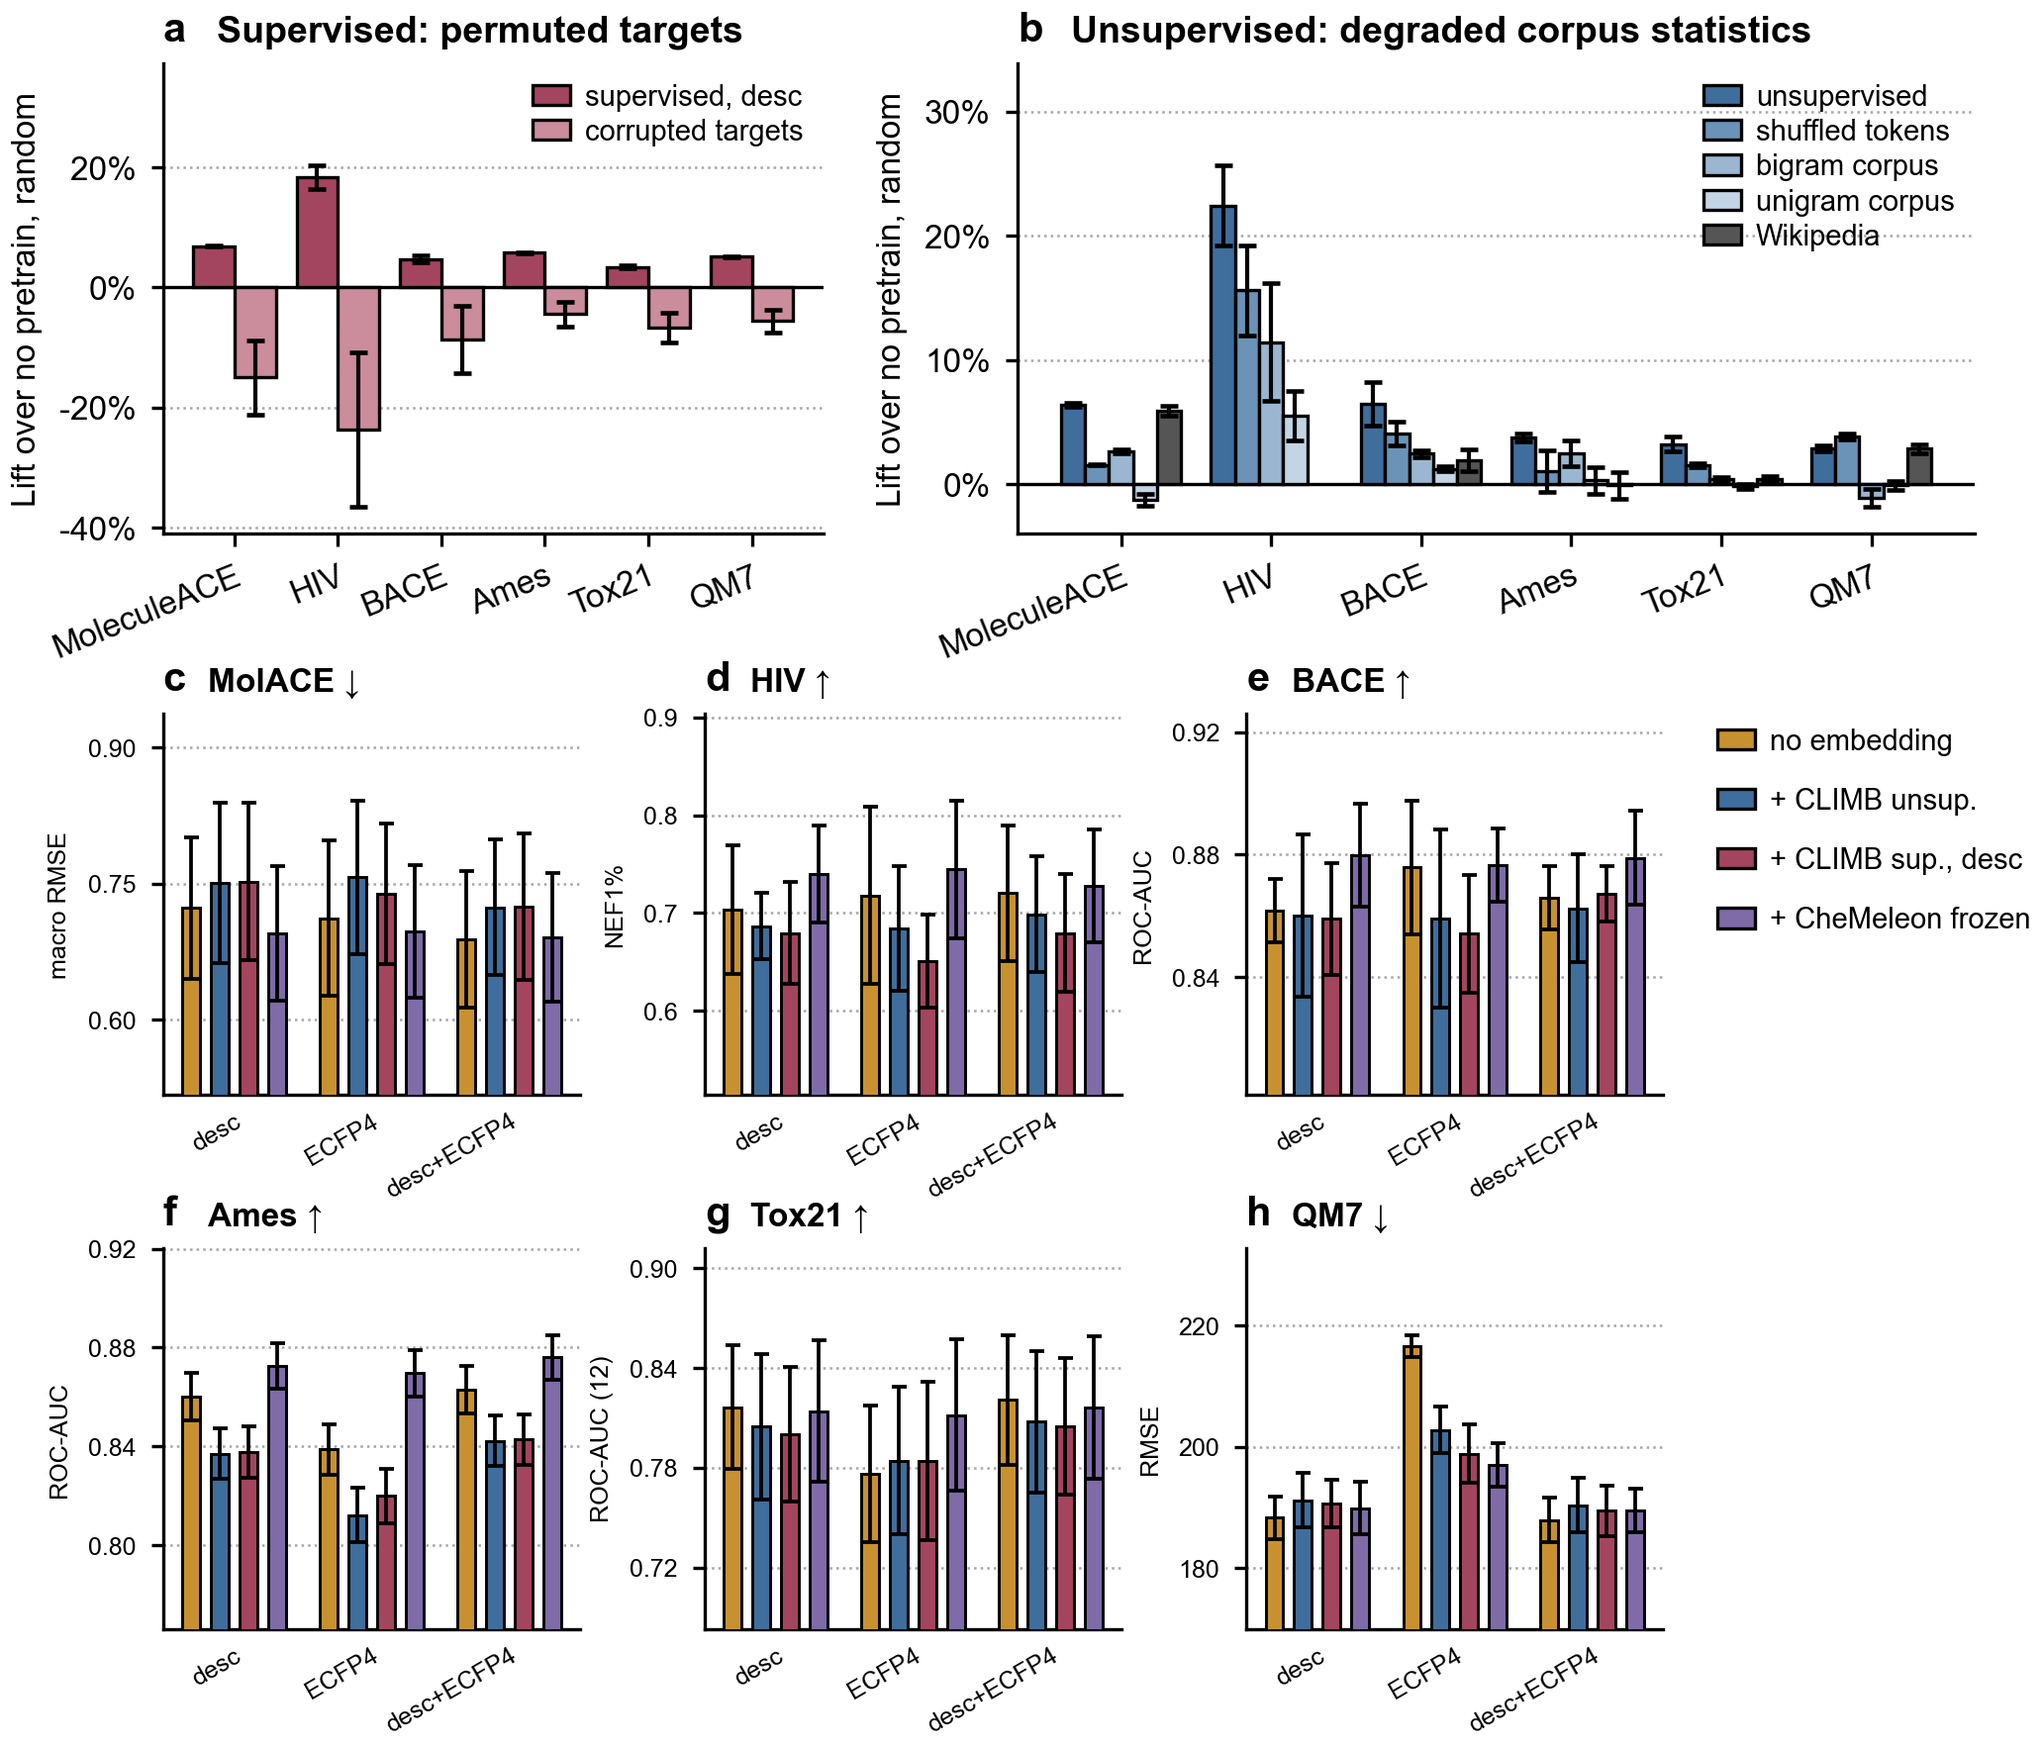
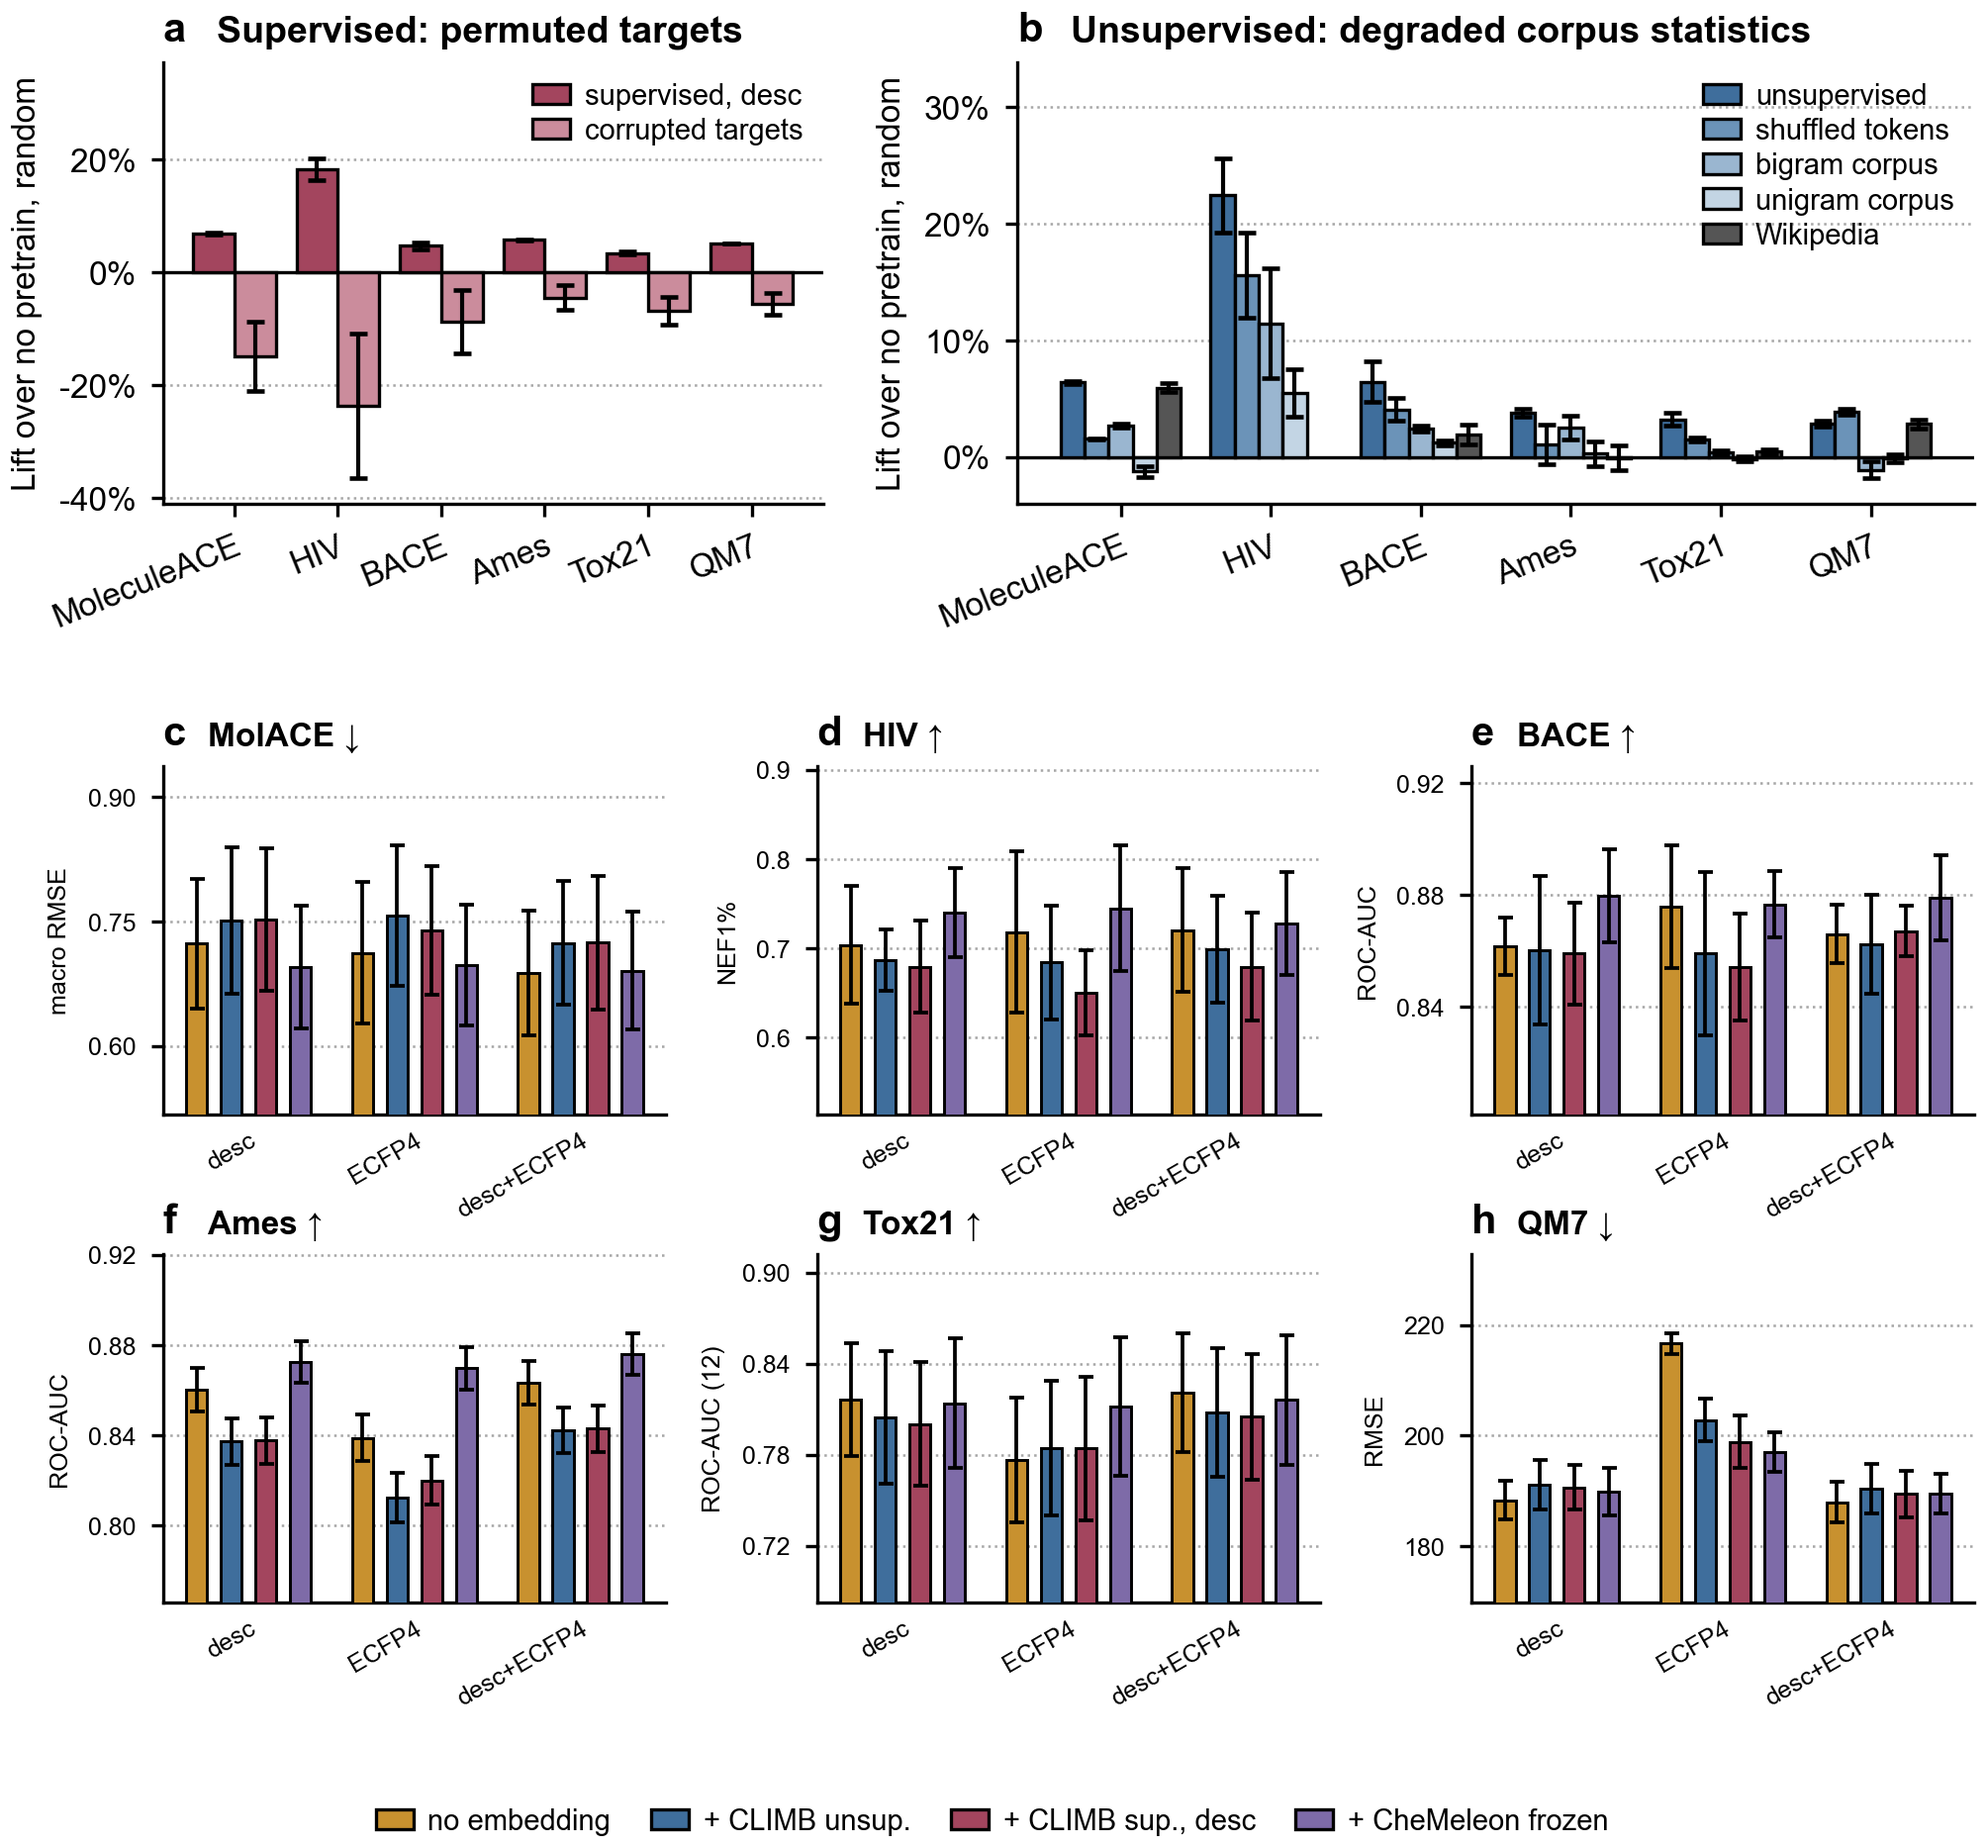
fig_E+F: one width for both halves, legend beneath; fig_A legend as wide as it fits
E+F. F stopped at 0.838 so its legend could sit in a gutter beside it, which put the two
halves of one figure on two different widths. The legend moves under F as a single row and F
runs to E's right edge -- the trade the old comment named and declined. F's panels go 1.78in
-> 2.05in and the plate grows 6.05 -> 6.22in for the legend row and the extra clearance E's
rotated tick labels need above F's titles.

fig_A. 'Wider, not longer' was the instruction and 4 columns is as wide as it goes. Measured
at the already-tightened handlelength and columnspacing:

    4 columns -> 6.68in   fits the 6.69in text block
    5 columns -> 6.85in   +2.4%
    6 columns -> 7.21in   +7.8%

Past 4 the legend rather than the panels sets the plate width, LaTeX scales the figure down
to fit and every font shrinks with it, so a wider legend makes worse use of the page. The
long labels are what cost it; shortening them is the only lever left.

A1 and A2 already share a width -- both gridspecs span 0.185 to 0.995 and the axes boxes
measure identical. What differs is ink outside the axes: A1's two-line arm names reach
further left than A2's y-labels, so the halves look inset when they are not.

diff --git a/figures/fig_E_plus_F.py b/figures/fig_E_plus_F.py
@@ -44,7 +44,7 @@ import matplotlib.pyplot as plt
 import pandas as pd
 from matplotlib.gridspec import GridSpec
 
-from figures.style import STYLE, FS, save, check_font
+from figures.style import STYLE, FS, save, check_font, row_ncol
 from figures.arms import PANEL_ORDER, ARMS
 import figures.fig_E as E
 import figures.fig_F as F
@@ -60,23 +60,23 @@ def main():
     # is set by what the two halves need: ~1.75in of axes for E's row and ~1.4in per row for F's
     # two. That lands well inside A4's 10.1in text height, so the figure and its caption share a
     # page.
-    RIGHT = 0.995            # E, and the page
-    F_RIGHT = 0.838          # F stops here; the legend column is 0.858..0.995
-    F_TOP, F_BOT = 0.600, 0.090
-    fig = plt.figure(figsize=(STYLE["col2"], 6.05))
+    # ONE RIGHT EDGE FOR BOTH HALVES (user 2026-08-20: "have the width of E and F be the same").
+    # F used to stop at 0.838 so its legend could sit in the gutter beside it; that made F's six
+    # panels 1.78in against E's 2.5/3.6in and, more to the point, put the two halves of one figure
+    # on two different widths. The legend moves under F instead. That is the trade the previous
+    # comment named and declined -- it costs page height for the legend row and buys back the
+    # alignment.
+    RIGHT = 0.995            # E, F, and the page
+    F_TOP, F_BOT = 0.600, 0.170
+    fig = plt.figure(figsize=(STYLE["col2"], 6.55))
     # width_ratios [1.0, 1.45] is fig_E's own: panel b carries five series per group and panel a
     # only two, so b needs the extra width to keep the ladder legible.
     # ONE right edge for both halves. The legend is right-aligned to the SAME number, which is
     # what "aligned with the right side of E" means once E and F are stacked and share it.
     gsE = GridSpec(1, 2, figure=fig, width_ratios=[1.0, 1.45], wspace=0.24,
-                   left=0.082, right=RIGHT, top=0.962, bottom=0.700)
-    # F stops SHORT of the right edge so its one-column legend sits BESIDE it rather than under it
-    # (user 2026-08-19). A legend below cost ~0.5in of page height for three entries; beside, it
-    # costs width that the six F panels can spare -- they were 1.83in and are now 1.63in, still far
-    # above the 1.15in that made the labels illegible in the old side-by-side layout. E keeps the
-    # full text block, so the two halves no longer share a right edge; that is the trade.
+                   left=0.082, right=RIGHT, top=0.962, bottom=0.735)
     gsF = GridSpec(2, 3, figure=fig, wspace=0.30, hspace=0.40,
-                   left=0.082, right=F_RIGHT, top=F_TOP, bottom=F_BOT)
+                   left=0.082, right=RIGHT, top=F_TOP, bottom=F_BOT)
 
     ylims = {panel: E._lim(dE[dE.panel == panel]) for panel, _, _, _ in E.PANELS}
     for col, (panel, tag, subtitle, series) in enumerate(E.PANELS):
@@ -92,21 +92,14 @@ def main():
         # point of the restack.
         F.draw_panel(ax, dF, p, compact=True, tag=tags[k], fig=fig, ylims=ylims, xrot=0, bw=0.62)
 
-    # VERTICAL, in the gutter to the RIGHT of the F block, centred on its height. The anchor entry
-    # is dropped -- it is the first bar in every panel, tick-labelled "ECFP+d", and is the dotted
-    # reference line, so it needs no swatch.
-    # TOP of the gutter, so the three entries sit level with F's FIRST row rather than straddling
-    # both (user 2026-08-19). loc="upper left" anchored at F's own top edge lines the legend's first
-    # swatch up with the top of panels c-e.
-    #
-    # WHAT THIS CANNOT DO: F cannot both carry a legend beside it and extend to E's right edge --
-    # the gutter is the legend. F is widened as far as the wrapped labels allow (0.775 -> 0.838,
-    # panels 1.63in -> 1.78in against E's 2.5/3.6in). Putting F at E's full width means the legend
-    # goes back underneath and the figure grows ~0.5in taller; that trade is in the commit message.
-    fig.legend(handles=F.legend_handles(skip_anchor=True, wrap=True), loc="upper left",
-               bbox_to_anchor=(F_RIGHT + 0.020, F_TOP), ncol=1,
-               fontsize=FS["legend"], handletextpad=0.5, labelspacing=1.1, borderpad=0.0,
-               frameon=False)
+    # HORIZONTAL, UNDER F, spanning its full width. The anchor entry is dropped -- it is the
+    # first bar in every panel, tick-labelled "ECFP+d", and is the dotted reference line, so it
+    # needs no swatch. Four entries fit one row comfortably at the full text-block width, which is
+    # the house default (figures/style.row_ncol) and what the gutter version could never do.
+    _h = F.legend_handles(skip_anchor=True, wrap=False)
+    fig.legend(handles=_h, loc="upper center", bbox_to_anchor=(0.5, F_BOT - 0.098),
+               ncol=row_ncol(_h), fontsize=FS["legend"], handletextpad=0.5, columnspacing=1.4,
+               labelspacing=0.3, borderpad=0.0, frameon=False)
     save(fig, "fig_E+F")
     plt.close(fig)
     print("assembled fig_E+F from fig_E + fig_F (no recomputation beyond their own entry points)")

diff --git a/figures/fig_A.py b/figures/fig_A.py
@@ -112,11 +112,19 @@ def build(height=HEIGHT, top_frac=0.62):
     _h2 = A2.legend_handles()
     fig.legend(handles=_h2, loc="upper center",
                bbox_to_anchor=((b_x0 + b_x1) / 2, b_bot - 0.030),
-               # 12 handles. One row is the default and does not fit, and neither does two:
-               # 6 columns rendered 7.49in against a 6.69in text block, i.e. the legend and not
-               # the panels was setting the plate width. rows=3 -> 4 columns, measured.
-               ncol=row_ncol(_h2, rows=3), frameon=False, fontsize=FS["legend"], handlelength=1.5,
-               handletextpad=0.5, labelspacing=0.3, columnspacing=1.1, borderpad=0.0,
+               # WIDER, NOT LONGER was the instruction (user 2026-08-20), and 4 columns is as
+               # wide as it goes. Measured at the tightened handlelength/columnspacing below,
+               # which are already past their defaults:
+               #     4 columns -> 6.68in     fits the 6.69in text block
+               #     5 columns -> 6.85in     +2.4%
+               #     6 columns -> 7.21in     +7.8%
+               # Past 4, the legend rather than the panels sets the plate width, LaTeX scales the
+               # whole figure down to fit, and every font shrinks with it -- so a wider legend
+               # makes worse use of the page, not better. The labels are what cost the width
+               # ("CheMeleon, frozen XGBoost", "no pretrain, random, reference"); shortening them
+               # would buy a fifth column and is the only lever left if 4 is ever not enough.
+               ncol=row_ncol(_h2, rows=3), frameon=False, fontsize=FS["legend"], handlelength=1.1,
+               handletextpad=0.35, labelspacing=0.3, columnspacing=0.75, borderpad=0.0,
                labelcolor=INK)
     return fig
 
